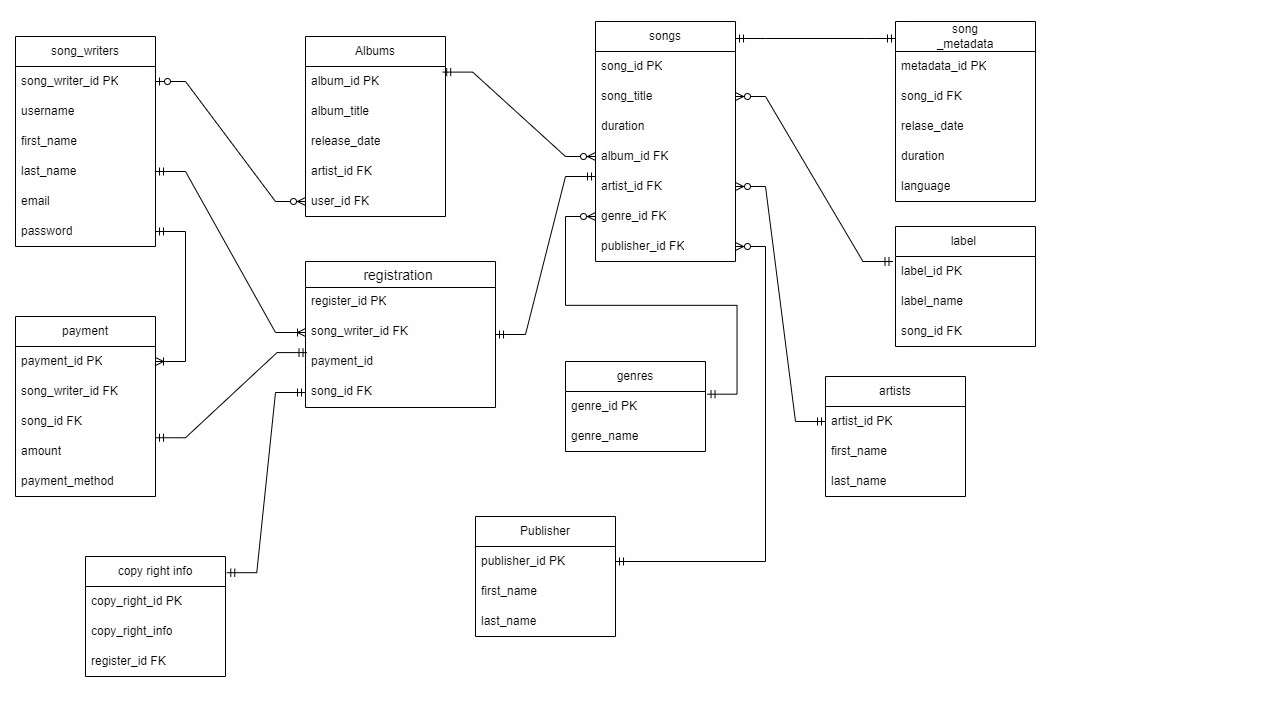
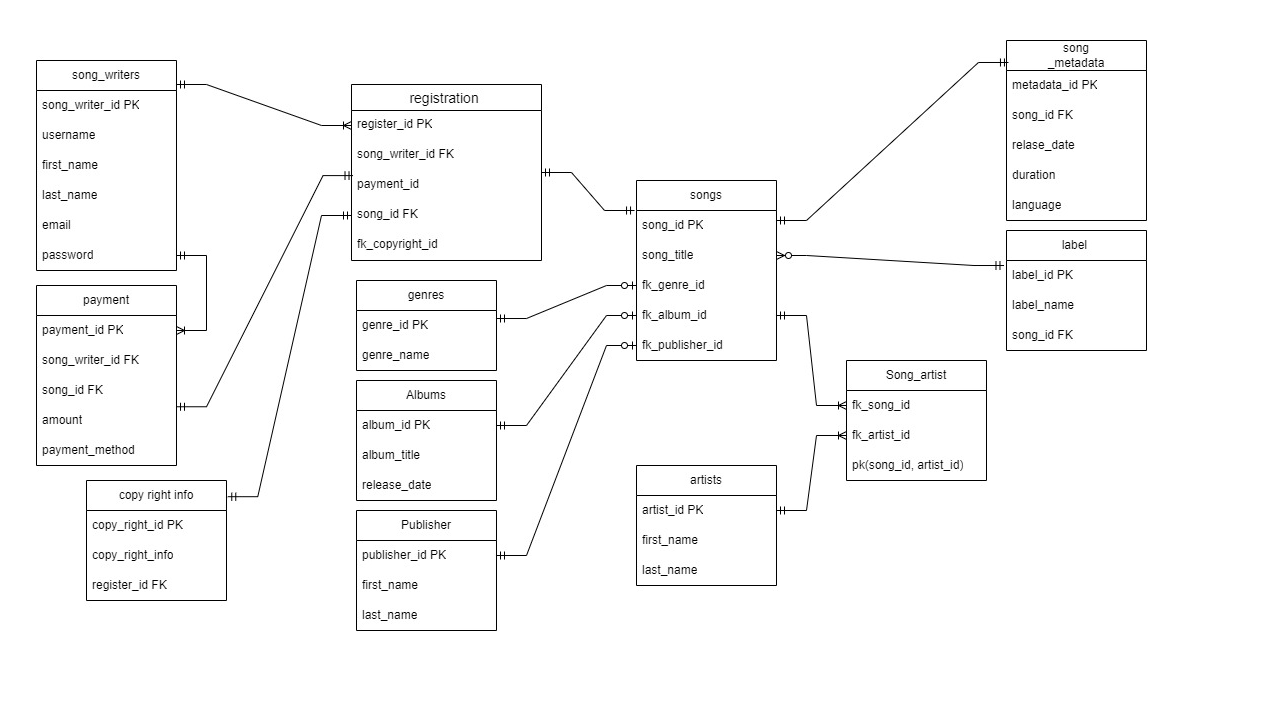
Edit Database Diagram

diff --git a/SongRegistry/app.py b/SongRegistry/app.py
@@ -17,11 +17,6 @@ app.config['MYSQL_DB'] = app.config['MYSQL_DB']
 
 mysql = MySQL(app)
 
-account_post_args = reqparse.RequestParser()
-account_post_args.add_argument("balance", type=float, help="put balance")
-account_post_args.add_argument("account_type", type=str, help="put balance")
-account_post_args.add_argument("date_opened", type=datetime, help="put balance")
-account_post_args.add_argument("account_status", type=str, help="put status")
 
     
 class SongWriters(Resource):
@@ -64,11 +59,14 @@ class Songs(Resource):
         
         data = request.json
         songTitle = data.get('songTitle')
+        genreId = data.get('genreId')
+        albumId = data.get('albumId')
+        publisherId = data.get('publisherId')
 
         # Insert data into the database
         cur = mysql.connection.cursor()
-        cur.execute('''INSERT INTO songs (song_title) 
-                       VALUES (%s)''', (songTitle))
+        cur.execute('''INSERT INTO songs (song_title, fk_genre_id, fk_album_id, fk_publisher_id) 
+                       VALUES (%s, %s, %s, %s)''', (songTitle, genreId, albumId, publisherId))
         mysql.connection.commit()
         cur.close()
 
@@ -167,85 +165,7 @@ class Genre(Resource):
         cur.close()
 
         return {'message': 'Genre Added successfully'}, 201
-    
 
-class SongGenre(Resource):
-    def get(self):
-        cur = mysql.connection.cursor()
-        cur.execute('''SELECT s.song_title, g.genre_name FROM songs s
-                        JOIN song_genre sg ON s.song_id = sg.fk_song_id
-                        JOIN genres g ON sg.fk_genre_id = g.genre_id''')
-        data = cur.fetchall()
-        cur.close
-        return jsonify(data)
-    
-    def post(self):
-
-        data = request.json
-        sognId = data.get('sognId')
-        genreId = data.get('genreId')
-
-        # Insert data into the database
-        cur = mysql.connection.cursor()
-        cur.execute('''INSERT INTO song_genre (fk_song_id, fk_genre_id) 
-                       VALUES (%s, %s)''', (sognId, genreId))
-        mysql.connection.commit()
-        cur.close()
-
-        return {'message': 'SongGenre Added successfully'}, 201
-    
-
-class SongAlbum(Resource):
-    def get(self):
-        cur = mysql.connection.cursor()
-        cur.execute('''SELECT s.song_title, a.album_title FROM songs s
-                        JOIN song_album sa ON s.song_id = sa.fk_song_id
-                        JOIN album a ON sa.fk_album_id = a.album_id''')
-        data = cur.fetchall()
-        cur.close
-        return jsonify(data)
-    
-    def post(self):
-
-        data = request.json
-        sognId = data.get('sognId')
-        albumId = data.get('albumId')
-
-        # Insert data into the database
-        cur = mysql.connection.cursor()
-        cur.execute('''INSERT INTO song_album (fk_song_id, fk_album_id) 
-                       VALUES (%s, %s)''', (sognId, albumId))
-        mysql.connection.commit()
-        cur.close()
-
-        return {'message': 'SongAlbum Added successfully'}, 201
-
-
-class SongPublisher(Resource):
-    def get(self):
-        cur = mysql.connection.cursor()
-        cur.execute('''SELECT s.song_title, CONCAT(p.first_name, " ", p.last_name) FROM songs s
-                        JOIN song_publisher sp ON s.song_id = sp.fk_song_id
-                        JOIN publisher p ON sp.fk_publisher_id = p.publisher_id''')
-        data = cur.fetchall()
-        cur.close
-        return jsonify(data)
-    
-    def post(self):
-
-        data = request.json
-        sognId = data.get('sognId')
-        publisherId = data.get('publisherId')
-
-        # Insert data into the database
-        cur = mysql.connection.cursor()
-        cur.execute('''INSERT INTO song_publisher (fk_song_id, fk_publisher_id) 
-                       VALUES (%s, %s)''', (sognId, publisherId))
-        mysql.connection.commit()
-        cur.close()
-
-        return {'message': 'SongPublisher Added successfully'}, 201
-    
 
 class SongArtist(Resource):
     def get(self):
@@ -307,9 +227,6 @@ api.add_resource(Album, "/album")
 api.add_resource(Artist, "/artist")
 api.add_resource(Publisher, "/publisher")
 api.add_resource(Genre, "/genre")
-api.add_resource(SongGenre, "/songgenre")
-api.add_resource(SongAlbum, "/songalbum")
-api.add_resource(SongPublisher, "/songpublisher")
 api.add_resource(SongArtist, "/songartist")
 api.add_resource(SongSongwriter, "/songsongwriter")
 
